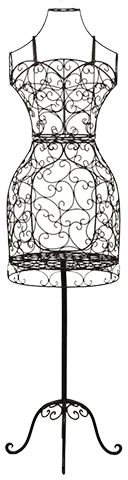
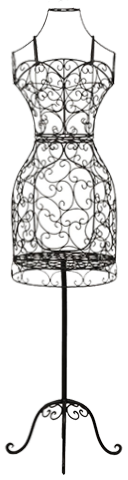
added block skirt length

Changed region(s): [[0.0312, 0.0312, 0.9688, 0.75], [0.1562, 0.8438, 0.4688, 0.9375], [0.0312, 0.9062, 0.125, 0.9375]]

diff --git a/dist/css/main.min.css b/dist/css/main.min.css
@@ -1,1 +1,1 @@
-.button,body{font-family:'Futura PT Book'}.container,.header-overlay,body{position:relative}.block-info__title,.button,.header-menu__item{text-transform:uppercase}.grid-item,.list__icon{float:left}.button{display:inline-block;margin-bottom:0;font-weight:400;text-align:center;vertical-align:middle;cursor:pointer;background-image:none;background-color:#e8bc5e;color:#fff;padding:8px 40px;font-size:14px;white-space:nowrap;-webkit-user-select:none;-moz-user-select:none;-ms-user-select:none;user-select:none;outline:0;border:none}.button:hover{background-color:#fad484}.button:active{background-color:#e6bd64}*{box-sizing:border-box}body,html{margin:0;padding:0;width:100%;height:100%}body{min-height:100%;height:auto!important;height:100%;font-size:18px;line-height:24px;min-width:750px;color:#4c4c4c}.block-info__text,.block-info__title{font-family:FuturaLight;text-align:center}.content.content_type_color .block-info__text,.content.content_type_image .block-info__text{color:#fff}.content{padding:88px 56px}.columns__item,.list__item{padding-left:72px;display:inline-block}.content.content_type_image{background:url(../../src/images/bg1.jpg) center no-repeat}.content.content_type_color{background:url(../../src/images/bg2.jpg) center no-repeat}.content.content_type_color,.content.content_type_image{background-size:cover}.container{max-width:1280px;margin:0 auto}.block-info{max-width:768px;margin:0 auto}.block-info__title{font-size:36px;line-height:48px;color:#000;margin-top:0}.block-info__title.title_type_color{color:#fad484}.block-info__text{font-size:18px;line-height:24px;color:grey;margin-top:24px}.block-info__button{margin:32px auto 0;text-align:center}.columns,.list{margin-left:-72px;font-size:0}.list__item{width:25%;font-size:14px;color:#fff}.list__body{overflow:hidden}.list__title{font-family:FuturaPTW01Medium;font-size:16px}.columns__item{width:50%;vertical-align:top;font-size:18px;line-height:28px}.author__bg{margin:54px 0}.author__img{width:100%}.contact-form-title{font-family:FuturaLight;font-size:36px;line-height:48px;font-weight:400}.input,.textarea{border:none;border-bottom:1px solid #e5e5e5;width:100%;padding:16px 0}.input:-moz-placeholder,.input:-ms-input-placeholder,.input::-moz-placeholder,.input::-webkit-input-placeholder,.textarea:-moz-placeholder,.textarea:-ms-input-placeholder,.textarea::-moz-placeholder,.textarea::-webkit-input-placeholder{font-size:18px!important;color:$Color_Black_03!important}.input:focus,.textarea:focus{border-bottom-color:grey;outline:0}input:-ms-input-placeholder{font-size:18px!important;color:$Color_Black_03!important}.contact-form__button{margin-top:40px}.header{background-color:#262626;width:100%}.header-overlay{text-align:center}.header-overlay__img{width:100%;height:auto}.header-overlay__info{position:absolute;top:50%;left:50%;-webkit-transform:translate(-50%,-50%);transform:translate(-50%,-50%)}.header-overlay__title{color:#fff;font-family:'Futura PT Book';font-size:26px;margin-bottom:24px;margin-top:0;line-height:32px}.footer,.modal__header{font-family:FuturaLight}.header-nav{background-color:#000;text-align:right;padding:12px 0}.logo{position:absolute;top:50%;left:0;-webkit-transform:translateY(-50%);transform:translateY(-50%);color:#b2b2b2;font-size:28px}.modal-holder,body.open{position:fixed}.header-menu{display:inline-block}.header-menu li{display:inline-block;vertical-align:middle}.header-menu__item{color:#fff;margin:0 24px;display:inline-block;text-decoration:none;font-size:18px}.gallery,.grid:after,body.open .modal-holder{display:block}.gallery{margin:56px 0}.grid:after{content:'';clear:both}.grid-item,.grid-sizer{width:20%}.grid-item{border:4px solid transparent}.grid-item img{display:block;max-width:100%}.modal-holder{top:0;bottom:0;left:0;right:0;background:rgba(0,0,0,.4);display:none}.modal{width:996px;margin:80px auto}.modal-wrapper{width:100%;margin:0 auto;overflow-y:auto;overflow-x:hidden;height:100%}.modal__header{position:relative;overflow:hidden;padding:16px 24px;border-bottom:1px solid #e5e5e5;color:#000;background-color:#fff}.modal__close{position:absolute;right:24px;top:50%;-webkit-transform:translateY(-50%);transform:translateY(-50%);font-size:48px;border:none;background:0 0;cursor:pointer}.modal__close:active,.modal__close:focus,.modal__close:hover{outline:0;border:none;background:0 0}.modal__icon{display:inline-block;-webkit-transform:rotate(45deg);transform:rotate(45deg)}.modal__title{font-size:28px;line-height:48px}.modal__body{font-size:0;position:relative}.modal__sidebar,.tabs{font-size:20px;list-style-type:none}.modal__sidebar{width:170px;background-color:#f7f7f7;display:inline-block;vertical-align:top;margin:0;padding:0}.modal__sidebar:after{content:"";position:absolute;top:0;bottom:0;background-color:#f7f7f7;width:170px;z-index:-1}.modal__sidebar-item{padding:16px 32px;color:#000;border-bottom:1px solid #e5e5e5;cursor:pointer}.modal__sidebar-item.active{background-color:#000;color:#fff}.modal__sidebar-item.active .options-board{display:block}.options-board{width:200px;height:700px;overflow-x:hidden;overflow-y:auto;padding:20px;position:absolute;top:0;left:170px;background-color:#fff;z-index:1;display:none}.footer__text,.modal__content,.tabs__item{display:inline-block}.option{width:150px;height:150px;border:5px solid #e5e5e5;text-align:center;margin-top:20px;background-color:#f7f7f7}.option:hover{border-color:#e8bc5e}.option:first-child{margin-top:0}.option__img{height:100%}.modal__content{width:826px;vertical-align:top;background-color:#fff}.model-overlay{width:100%;height:700px;background:url(../../src/images/model-bg.jpg) center no-repeat;background-size:cover;position:relative}.model{background:url(../../src/images/model.png) center no-repeat;height:480px;width:128px;position:absolute;bottom:65px;left:50%;-webkit-transform:translateX(-50%);transform:translateX(-50%)}.tabs-content{font-size:16px}.footer{padding:0 56px;font-siZe:18px;text-align:right;position:relative}.footer .container{border-top:1px solid #e5e5e5;padding:24px 0}.header__logo{position:absolute;top:50%;left:24px;-webkit-transform:translateY(-50%);transform:translateY(-50%)}
+.button,body{font-family:'Futura PT Book'}.container,.header-overlay,body{position:relative}.block-info__title,.button,.header-menu__item{text-transform:uppercase}.grid-item,.list__icon{float:left}.button{display:inline-block;margin-bottom:0;font-weight:400;text-align:center;vertical-align:middle;cursor:pointer;background-image:none;background-color:#e8bc5e;color:#fff;padding:8px 40px;font-size:14px;white-space:nowrap;-webkit-user-select:none;-moz-user-select:none;-ms-user-select:none;user-select:none;outline:0;border:none}.button:hover{background-color:#fad484}.button:active{background-color:#e6bd64}*{box-sizing:border-box}body,html{margin:0;padding:0;width:100%;height:100%}body{min-height:100%;height:auto!important;height:100%;font-size:18px;line-height:24px;min-width:750px;color:#4c4c4c}.block-info__text,.block-info__title{font-family:FuturaLight;text-align:center}.content.content_type_color .block-info__text,.content.content_type_image .block-info__text{color:#fff}.content{padding:88px 56px}.columns__item,.list__item{padding-left:72px;display:inline-block}.content.content_type_image{background:url(../../src/images/bg1.jpg) center no-repeat}.content.content_type_color{background:url(../../src/images/bg2.jpg) center no-repeat}.content.content_type_color,.content.content_type_image{background-size:cover}.container{max-width:1280px;margin:0 auto}.block-info{max-width:768px;margin:0 auto}.block-info__title{font-size:36px;line-height:48px;color:#000;margin-top:0}.block-info__title.title_type_color{color:#fad484}.block-info__text{font-size:18px;line-height:24px;color:grey;margin-top:24px}.block-info__button{margin:32px auto 0;text-align:center}.columns,.list{margin-left:-72px;font-size:0}.list__item{width:25%;font-size:14px;color:#fff}.list__body{overflow:hidden}.list__title{font-family:FuturaPTW01Medium;font-size:16px}.columns__item{width:50%;vertical-align:top;font-size:18px;line-height:28px}.author__bg{margin:54px 0}.author__img{width:100%}.contact-form-title{font-family:FuturaLight;font-size:36px;line-height:48px;font-weight:400}.input,.textarea{border:none;border-bottom:1px solid #e5e5e5;width:100%;padding:16px 0}.input:-moz-placeholder,.input:-ms-input-placeholder,.input::-moz-placeholder,.input::-webkit-input-placeholder,.textarea:-moz-placeholder,.textarea:-ms-input-placeholder,.textarea::-moz-placeholder,.textarea::-webkit-input-placeholder{font-size:18px!important;color:$Color_Black_03!important}.input:focus,.textarea:focus{border-bottom-color:grey;outline:0}input:-ms-input-placeholder{font-size:18px!important;color:$Color_Black_03!important}.contact-form__button{margin-top:40px}.header{background-color:#262626;width:100%}.header-overlay{text-align:center}.header-overlay__img{width:100%;height:auto}.header-overlay__info{position:absolute;top:50%;left:50%;-webkit-transform:translate(-50%,-50%);transform:translate(-50%,-50%)}.header-overlay__title{color:#fff;font-family:'Futura PT Book';font-size:26px;margin-bottom:24px;margin-top:0;line-height:32px}.footer,.modal__header{font-family:FuturaLight}.header-nav{background-color:#000;text-align:right;padding:12px 0}.model__decolette,.model__skirt,.option{text-align:center}.logo{position:absolute;top:50%;left:0;-webkit-transform:translateY(-50%);transform:translateY(-50%);color:#b2b2b2;font-size:28px}.modal-holder,body.open{position:fixed}.header-menu{display:inline-block}.header-menu li{display:inline-block;vertical-align:middle}.header-menu__item{color:#fff;margin:0 24px;display:inline-block;text-decoration:none;font-size:18px}.gallery,.grid:after,body.open .modal-holder{display:block}.gallery{margin:56px 0}.grid:after{content:'';clear:both}.grid-item,.grid-sizer{width:20%}.grid-item{border:4px solid transparent}.grid-item img{display:block;max-width:100%}.modal-holder{top:0;bottom:0;left:0;right:0;background:rgba(0,0,0,.4);display:none}.modal{width:996px;margin:80px auto}.modal-wrapper{width:100%;margin:0 auto;overflow-y:auto;overflow-x:hidden;height:100%}.modal__header{position:relative;overflow:hidden;padding:16px 24px;border-bottom:1px solid #e5e5e5;color:#000;background-color:#fff}.modal__close{position:absolute;right:24px;top:50%;-webkit-transform:translateY(-50%);transform:translateY(-50%);font-size:48px;border:none;background:0 0;cursor:pointer}.modal__close:active,.modal__close:focus,.modal__close:hover{outline:0;border:none;background:0 0}.modal__icon{display:inline-block;-webkit-transform:rotate(45deg);transform:rotate(45deg)}.modal__title{font-size:28px;line-height:48px}.modal__body{font-size:0;position:relative}.modal__sidebar,.tabs{font-size:20px;list-style-type:none}.modal__sidebar{width:170px;background-color:#f7f7f7;display:inline-block;vertical-align:top;margin:0;padding:0}.modal__sidebar:after{content:"";position:absolute;top:0;bottom:0;background-color:#f7f7f7;width:170px;z-index:-1}.modal__sidebar-item{padding:16px 32px;color:#000;border-bottom:1px solid #e5e5e5;cursor:pointer}.modal__sidebar-item.active{background-color:#000;color:#fff}.modal__sidebar-item.active .options-board{display:block}.options-board{width:200px;height:700px;overflow-x:hidden;overflow-y:auto;padding:20px;position:absolute;top:0;left:170px;background-color:#fff;z-index:1;display:none}.footer__text,.modal__content,.tabs__item{display:inline-block}.option{width:150px;height:150px;border:5px solid #e5e5e5;margin-top:20px;background-color:#f7f7f7}.option.checked,.option:hover{border-color:#e8bc5e}.option:first-child{margin-top:0}.option__img{height:100%}.modal__content{width:826px;vertical-align:top;background-color:#fff}.model-overlay{width:100%;height:700px;background:url(../../src/images/model-bg.jpg) center no-repeat;background-size:cover;position:relative}.model{background:url(../../src/images/model.png) center no-repeat;height:480px;width:128px;position:absolute;bottom:65px;left:50%;-webkit-transform:translateX(-50%);transform:translateX(-50%)}.tabs-content{font-size:16px}.model__skirt{margin-top:-20px}.model__decolette-img{margin-top:35px}.footer{padding:0 56px;font-siZe:18px;text-align:right;position:relative}.footer .container{border-top:1px solid #e5e5e5;padding:24px 0}.header__logo{position:absolute;top:50%;left:24px;-webkit-transform:translateY(-50%);transform:translateY(-50%)}

diff --git a/src/app/main/constructor.tpl.html b/src/app/main/constructor.tpl.html
@@ -13,7 +13,7 @@
         <ul class="modal__sidebar">
           <li class="modal__sidebar-item" ng-class="{active: vm.isActive('style')}"  ng-click="vm.activated('style')">Style
             <div class="options-board">
-              <div class="option" ng-repeat="style in vm.styles" ng-class="{'checked in': vm.model.style.type == style.type}" ng-click="vm.model.style = style">
+              <div class="option" ng-repeat="style in vm.styles" ng-class="{'checked': vm.model.style.type == style.type}" ng-click="vm.model.style = style">
                 <img ng-src="{{style.image}}" alt="" class="option__img">
                 {{style.type}}
               </div>
@@ -21,21 +21,28 @@
           </li>
           <li class="modal__sidebar-item" ng-class="{active: vm.isActive('textile')}"  ng-click="vm.activated('textile')">Textile
             <div class="options-board">
-              <div class="option" ng-repeat="textile in vm.textiles">
+              <div class="option" ng-repeat="textile in vm.textiles" ng-class="{checked: vm.model.textile.title == textile.title}">
                 <img ng-src="{{textile.image}}" alt="" class="option__img">
               </div>
             </div>
           </li>
           <li class="modal__sidebar-item" ng-class="{active: vm.isActive('decolette')}"  ng-click="vm.activated('decolette')">Decollete
             <div class="options-board">
-              <div class="option" ng-repeat="decollete in vm.decolletes">
+              <div class="option" ng-repeat="decollete in vm.decolletes" ng-class="{checked: vm.model.decollete.title == decollete.title}">
                 <img ng-src="{{decollete.image}}" alt="" class="option__img">
               </div>
             </div>
           </li>
-          <li class="modal__sidebar-item" ng-class="{active: vm.isActive('skirt')}"  ng-click="vm.activated('skirt')">Skirt
+          <li class="modal__sidebar-item" ng-class="{active: vm.isActive('skirt')}"  ng-click="vm.activated('skirt')"  ng-hide="vm.model.style.type == 'straight'">Skirt
             <div class="options-board">
-              <div class="option" ng-repeat="skirt in vm.skirts | filter: {styleType: vm.model.style.type}">
+              <div class="option" ng-repeat="skirt in vm.skirts" ng-class="{checked: vm.model.skirt.title == skirt.title}">
+                <img ng-src="{{skirt.image}}" alt="" class="option__img">
+              </div>
+            </div>
+          </li>
+          <li class="modal__sidebar-item" ng-class="{active: vm.isActive('skirt')}"  ng-click="vm.activated('skirt')" ng-show="vm.model.style.type == 'straight'">Skirt's length
+            <div class="options-board">
+              <div class="option" ng-repeat="skirt in vm.straightType" ng-class="{checked: vm.model.straightType.title == skirt.title}">
                 <img ng-src="{{skirt.image}}" alt="" class="option__img">
               </div>
             </div>
@@ -50,7 +57,15 @@
         </ul>
         <div class="modal__content">
           <div class="model-overlay">
-            <div class="model"></div>
+            <div class="model">
+              <div class="model__decolette">
+                <img src="/src/images/model/straight_decollete_jewel_white.png" alt="model__decolette" class="model__decolette-img">
+              </div>
+              <div class="model__skirt">
+                <img src="/src/images/model/face_straight_skirt_shorter.png" alt="model__skirt" class="model__skirt-img">
+              </div>
+              <div class="model__sleeve"></div>
+            </div>
           </div>
           <div class="model-contrller">
             <ul class="tabs">

diff --git a/src/app/main/constructor.controller.js b/src/app/main/constructor.controller.js
@@ -50,6 +50,10 @@
 			];
 
 			vm.decolletes = [
+				{
+		    		title: 'jewel',
+		    		image: '/src/images/decollete/jewel.png'
+		    	},
 		    	{
 		    		title: 'scoop',
 		    		image: '/src/images/decollete/scoop.png'
@@ -61,10 +65,6 @@
 		    	{
 		    		title: 'v-neck',
 		    		image: '/src/images/decollete/v-neck.png'
-		    	},
-		    	{
-		    		title: 'jewel',
-		    		image: '/src/images/decollete/jewel.png'
 		    	},
 		    	{
 		    		title: 'jewel',
@@ -123,6 +123,25 @@
 		    	}
 		    ];
 
+			vm.straightType = [
+				{
+					title: 'shorter',
+					image: '/src/images/skirts/shorter.png'
+				},
+				{
+					title: 'short',
+					image: '/src/images/skirts/short.png'
+				},
+				{
+					title: 'long',
+					image: '/src/images/skirts/long.png'
+				},
+				{
+					title: 'longer',
+					image: '/src/images/skirts/longer.png'
+				}
+		    ];
+
 		    vm.model = {
 				style: vm.styles[0],
 				textile: vm.textiles[0],
@@ -130,6 +149,7 @@
 				color: 'red',
 				skirt: vm.skirts[0],
 				sleeve: vm.sleeves[0],
+				straightType: vm.straightType[0],
 				size: 'XS'
 			};
 
@@ -151,14 +171,6 @@
 				vm.modelProperty = modelProperty;
 			}
 			
-			
-			vm.activateCheck = function (style) {
-				if ( vm.styles.type ==  'straight' ){
-					vm.checked = true;
-				} else {
-					vm.checked = false;
-				}
-			}
 			
 
 		 });

diff --git a/dist/css/main.css b/dist/css/main.css
@@ -369,7 +369,8 @@ body.open .modal-holder {
   margin-top: 20px;
   background-color: #f7f7f7;
 }
-.option:hover {
+.option:hover,
+.option.checked {
   border-color: #e8bc5e;
 }
 .option:first-child {
@@ -410,6 +411,16 @@ body.open .modal-holder {
 }
 .tabs-content {
   font-size: 16px;
+}
+.model__decolette,
+.model__skirt {
+  text-align: center;
+}
+.model__skirt {
+  margin-top: -20px;
+}
+.model__decolette-img {
+  margin-top: 35px;
 }
 .footer {
   padding: 0 56px;
